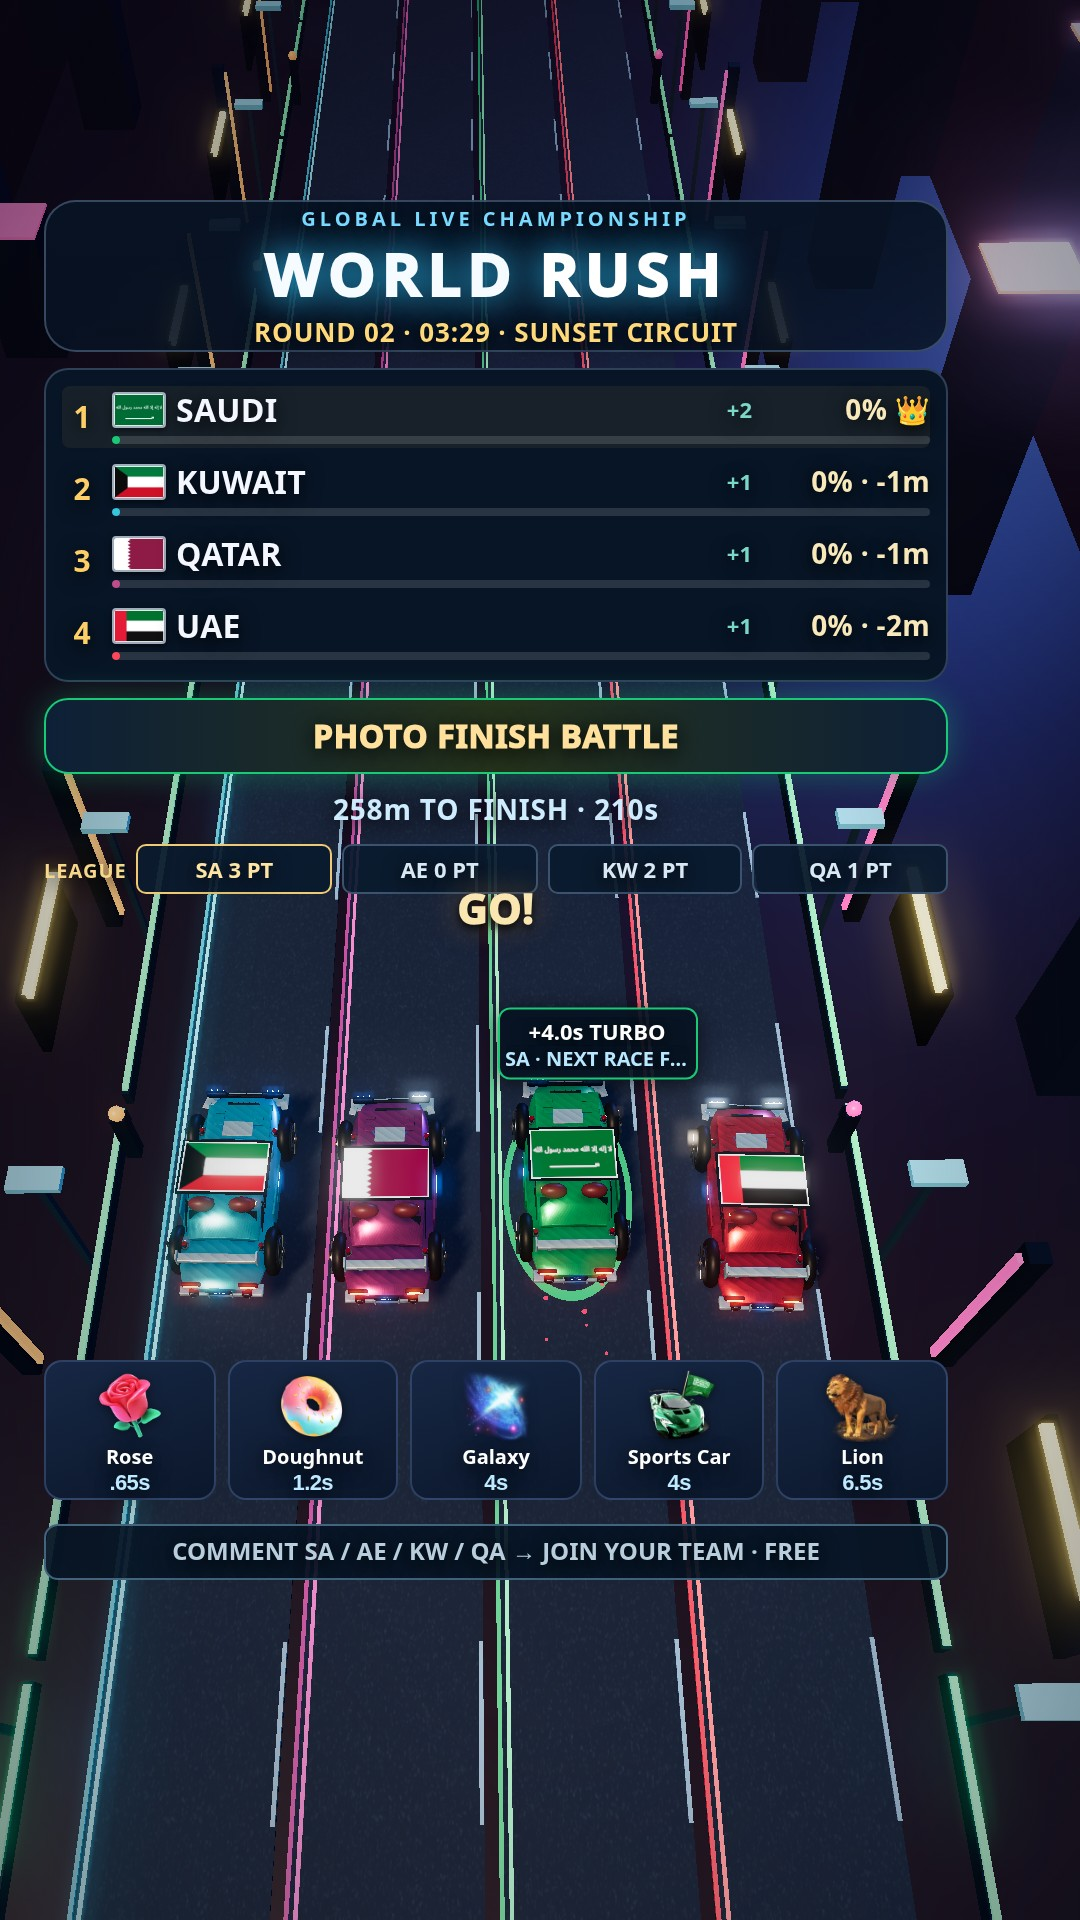
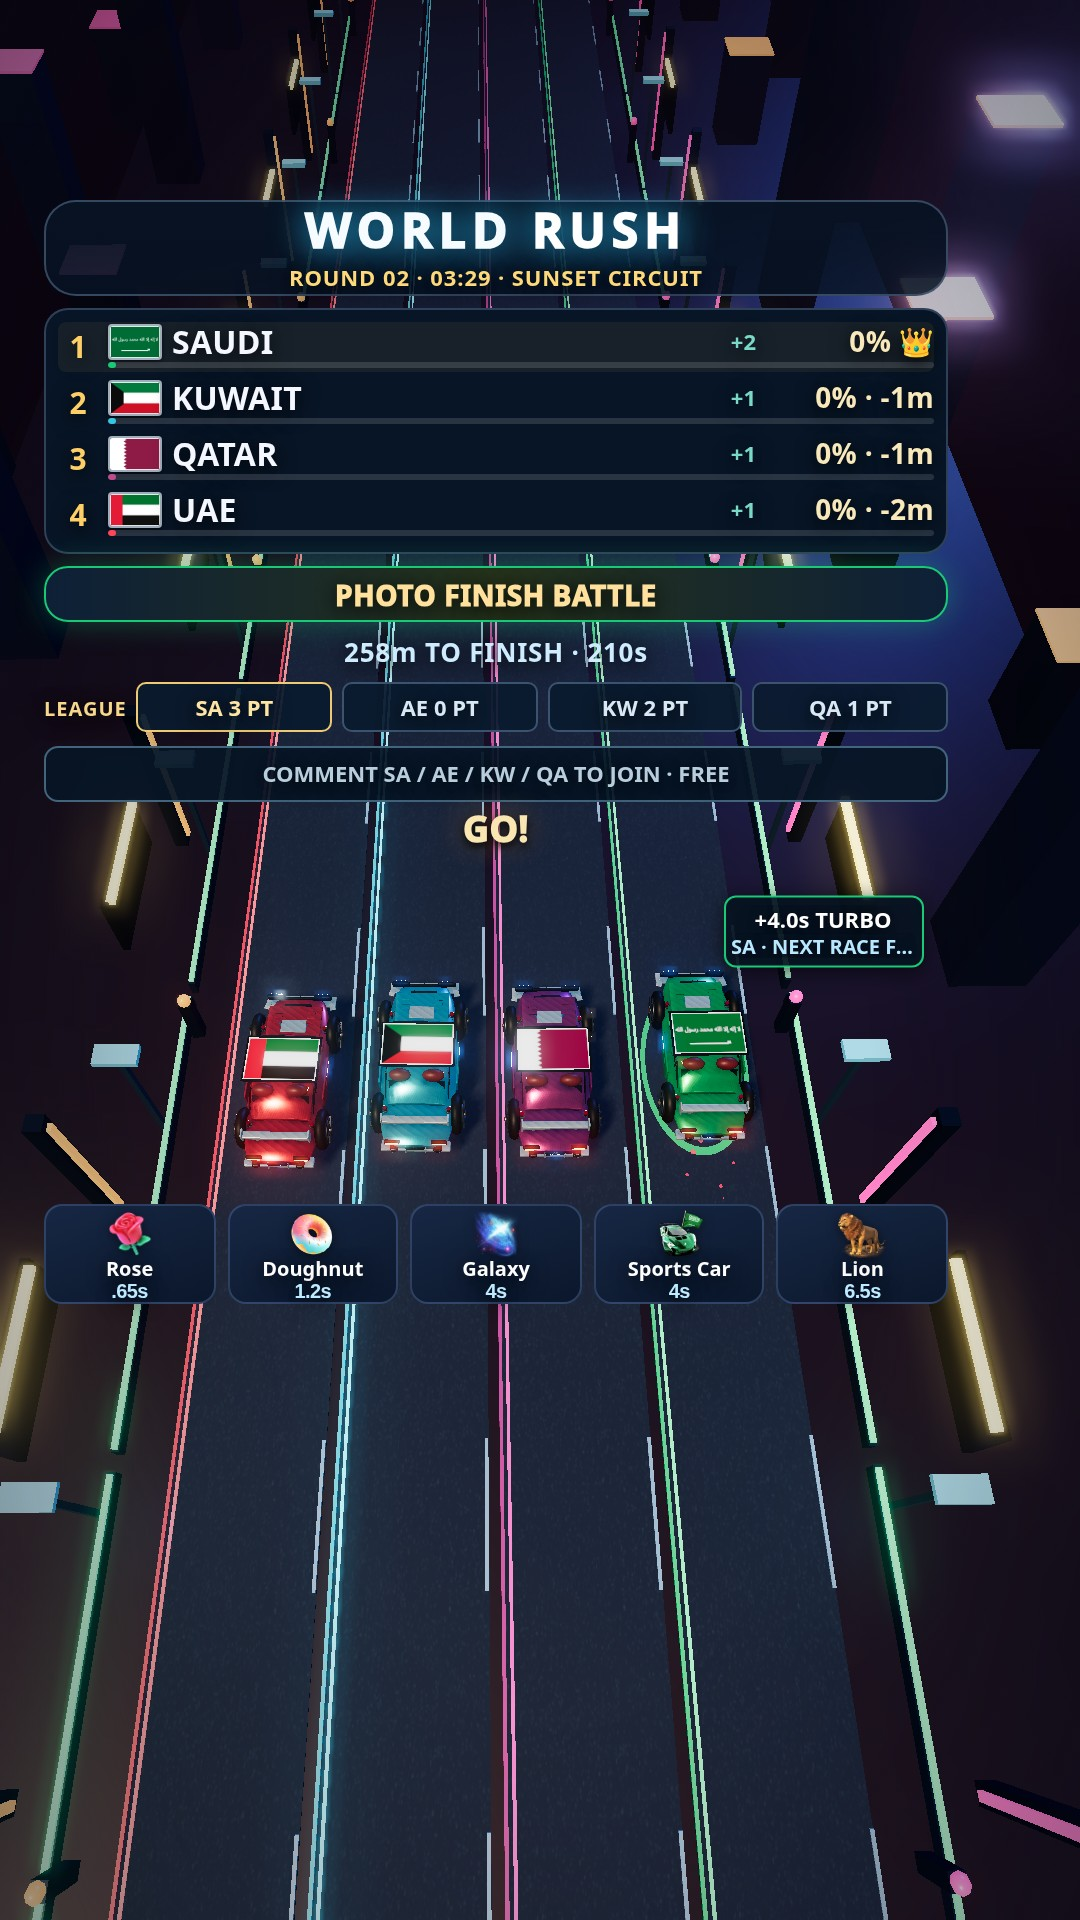
Reserve lower LIVE viewport for TikTok chat overlays

diff --git a/index.html b/index.html
@@ -156,7 +156,7 @@ h1 span{color:#75d4ff}
 
 
 /* LIVE capture fills any host viewport. Essential content uses a centered 9:16 area.
-   Safe bounds in logical pixels: x 22..474, y 100..790. */
+   Safe bounds in logical pixels: x 22..474, y 100..660. */
 html.stream-source,html.stream-source body{overflow:hidden}
 #app.portrait-layout.stream-mode{width:100vw;height:100dvh;min-height:0;box-shadow:none}
 #app.stream-mode #operatorPanel,#app.stream-mode #safePreview{display:none!important}
@@ -225,6 +225,33 @@ html.stream-source,html.stream-source body{overflow:hidden}
 #winnerCard{top:450px}
 .carLabel strong{font-size:11px}
 
+/* Keep essential LIVE content above the observed TikTok chat boundary (y=660). */
+#app.stream-mode #hud{padding:100px 66px 300px 22px}
+#app.stream-mode #topStack{gap:6px}
+#app.stream-mode header{height:48px;padding:4px;gap:2px}
+#app.stream-mode header small{display:none}
+#app.stream-mode h1{font-size:24px}
+#app.stream-mode #meta{font-size:11px}
+#app.stream-mode #rank{padding:6px;gap:3px}
+#app.stream-mode .racer{height:25px;grid-template-rows:19px 3px;row-gap:1px}
+#app.stream-mode .miniBar{height:3px}
+#app.stream-mode #battle{height:28px;padding:4px;font-size:14px}
+#app.stream-mode #countdown{font-size:13px}
+#app.stream-mode #joinHint{top:370px;bottom:auto;height:28px;font-size:11px}
+#app.stream-mode #giftGuide{top:602px;bottom:auto;height:50px;gap:6px}
+#app.stream-mode .giftBubble{height:50px;padding:2px;gap:0}
+#app.stream-mode .giftBubble .giftArt{width:24px;height:24px}
+#app.stream-mode .giftBubble .giftEmoji{font-size:22px;height:24px}
+#app.stream-mode .giftBubble .giftName{font-size:10px;line-height:11px}
+#app.stream-mode .giftBubble .giftPower{font-size:10px;line-height:11px}
+#app.stream-mode #giftMoment{top:404px;height:42px}
+#app.stream-mode #giftMoment .giftArt{width:34px;height:34px}
+#app.stream-mode #teamToast,#app.stream-mode #event{top:404px}
+#app.stream-mode #event{font-size:18px}
+#app.stream-mode #startCountdown{top:404px;font-size:56px}
+#app.stream-mode #winnerCard{top:404px;padding:6px}
+#app.stream-mode #winnerCard strong{font-size:19px}
+#app.stream-mode #winnerCard span{font-size:10px}
 </style></head><body><main id="app" class="booting broadcast-safe portrait-layout"><div id="stage"></div><div id="bootScreen"><div class="bootLogo">WORLD <span>RUSH</span></div><div class="bootCaption">PREPARING THE START GRID</div></div><div id="overlay"></div><div id="hud"><div id="topStack"><header><small>GLOBAL LIVE CHAMPIONSHIP</small><h1>WORLD <span>RUSH</span></h1><div id="meta">R01 · 03:30</div></header><div id="rank"></div><div id="raceProgress"><div id="progressLabel"><strong id="distance">260m LEFT</strong><div id="battle">RACE STARTING</div><div id="countdown">LIVE RACE</div><div id="leagueBoard" aria-label="Current league points"></div></div><div id="joinHint">COMMENT SA / AE / KW / QA TO JOIN · FREE</div>
 <div id="giftGuide" hidden aria-label="Hediye efektleri"><span class="giftBubble" data-gift-key="Rose"><span class="giftEmoji">🌹</span><img class="giftArt" hidden alt=""><span class="giftName">Rose</span><span class="giftPower">.65s</span></span>
 <span class="giftBubble" data-gift-key="Doughnut"><span class="giftEmoji">🍩</span><img class="giftArt" hidden alt=""><span class="giftName">Doughnut</span><span class="giftPower">1.2s</span></span>
@@ -1243,7 +1270,7 @@ function updateCarPresentation(order,now){
   // Keep labels in lane order so simultaneous boosts remain readable.
   const column=22+(car.laneIndex+.5)*113;
   const x=THREE.MathUtils.clamp(270+labelPoint.x*width/(2*scale),column-6,column+6);
-  const y=THREE.MathUtils.clamp(480-labelPoint.y*height/(2*scale),540,665);
+  const y=THREE.MathUtils.clamp(480-labelPoint.y*height/(2*scale),streamMode?484:540,streamMode?590:665);
   node.title=boosting?car.boost.toFixed(1)+'s remaining':'';
   node.style.left=x+'px';node.style.top=y+'px';
   node.style.setProperty('--team-color','#'+car.color.toString(16).padStart(6,'0'));
@@ -1287,7 +1314,7 @@ function framePortraitRace(){
  }
  // Fit the pack between the score panel and TikTok's comment area.
  const bounds=streamMode
-  ?{left:22,right:474,top:516,bottom:670}
+  ?{left:22,right:474,top:466,bottom:596}
   :{left:24.3,right:515.7,top:408,bottom:801.6};
  const targetWidth=(bounds.right-bounds.left)/270*portraitArea.width;
  const targetHeight=(bounds.bottom-bounds.top)/480*portraitArea.height;

diff --git a/screenshots/live-validation.md b/screenshots/live-validation.md
@@ -4,7 +4,7 @@
 
 | Kontrol | Sonuç |
 | --- | --- |
-| 1080×1920, 540×960 ve 1080×1080 | Her boyutta 10 görüntü kontrolü geçti |
+| 1080×1920, 540×960 ve 1080×1080 | Her boyutta 11 görüntü kontrolü geçti |
 | Başlangıç ve ilerleyen yarış | Dört araç, bayraklar ve skor satırları görünür |
 | Üç kamera modu | Araç sınırları tanımlanan güvenli alan içinde |
 | Lion kartı | Simüle WebSocket hediyesi doğru takıma boost verdi |
@@ -18,7 +18,7 @@
 | Ses motoru | Otomatik oynatma izni verilen tarayıcıda AudioContext running |
 | JavaScript | Testlerde sayfa hatası oluşmadı |
 
-Görüntüler doğrudan tarayıcı ekran görüntüleridir. Çizim tamponu boyutu kaynak çözünürlüğüyle aynı ölçüldü. HUD ve araç kutuları mantıksal 540×960 koordinatlara dönüştürülüp sınır denetiminden geçirildi. Test edilen kamera ve yarış durumlarında araç genişlikleri yaklaşık 38–95 mantıksal piksel arasındaydı.
+Görüntüler doğrudan tarayıcı ekran görüntüleridir. Çizim tamponu boyutu kaynak çözünürlüğüyle aynı ölçüldü. HUD ve araç kutuları mantıksal 540×960 koordinatlara dönüştürülüp sınır denetiminden geçirildi. Test edilen kamera ve yarış durumlarında araç genişlikleri yaklaşık 32–87 mantıksal piksel arasındaydı.
 
 Test hızlandırılmış oyun adımlarıyla gerçek oyun mantığını çalıştırır. Ara karelerde GPU çizimi atlanır, kontrol karelerinde gerçek WebGL çıktısı kaydedilir. WebSocket olayları test tarafından üretilir.
 
@@ -39,7 +39,7 @@ Repo kökünde `npm ci`, `npx playwright install chromium`, `npm run test:live` 
 
 ## Windows üzerinde kalan kontroller
 
-Kullanıcının TikTok LIVE Studio sahnesine erişilmedi. Studio'nun gerçek dönüşümü, kişiye özel TikTok katmanları, gerçek yayın sesinin yakalanması ve gerçek TikTok hediye bağlantısı burada doğrulanamadı. Bu testler 60 FPS sonucunu ölçmez. Güvenli alanlar üstte 100, sağda 66, altta 170 mantıksal piksel varsayımıyla düzenlendi. Studio önizlemesiyle kontrol edilmelidir. Windows komut dosyaları Linux ortamında çalıştırılmadı.
+Kullanıcının TikTok LIVE Studio sahnesine erişilmedi. Studio'nun gerçek dönüşümü, kişiye özel TikTok katmanları, gerçek yayın sesinin yakalanması ve gerçek TikTok hediye bağlantısı burada doğrulanamadı. Bu testler 60 FPS sonucunu ölçmez. Güvenli alanlar üstte 100, sağda 66, altta 300 mantıksal piksel varsayımıyla düzenlendi. Studio önizlemesiyle kontrol edilmelidir. Windows komut dosyaları Linux ortamında çalıştırılmadı.
 
 Son görsel güncellemesinde özgün TikTok CDN resimlerinin beş kartta yüklenmesi de otomatik kontrol edildi. Neon yan süslemeleri ve büyütülmüş hediye kartlarıyla üç çözünürlükte testler tekrar çalıştırıldı.
 
@@ -50,3 +50,9 @@ Katılım açıklaması ve hediye kılavuzu sürekli görünür. Araç altındak
 Sonuç ekranı 3 saniye, sonraki başlangıç 1,5 saniyedir. Üç kaynak boyutundaki test, finişten 5 saniye sonra yeni yarışın başladığını, her ülkenin şerit değiştirdiğini ve bekleyen hediyenin doğru destekçiyle taşındığını denetler. `npm run test:live -- --themes-only` dört arena geçişini 1080×1920 boyutunda kontrol eder; ülke kimlikleri ve şerit renklerinin eşleşmesi de denetlenir.
 
 - [Sonraki yarış: yeni şeritler ve Sunset Circuit](live-next-arena-1080x1920.jpg)
+
+## TikTok sohbetine ayrılan alan
+
+Paylaşılan Studio önizlemesine göre kritik içeriklerin alt sınırı y=660 mantıksal piksele çekildi. Test artık tüm HUD kutuları için bu sınırı, araçlar için y=600 sınırını doğrular. Her çözünürlükte sonraki yarışa bir temsili sohbet katmanı eklenerek ekran görüntüsü alınır. Bu katman yalnızca testte bulunur; gerçek TikTok sohbetini kontrol etmez.
+
+- [1080×1920 temsili sohbet önizlemesi](live-chat-preview-1080x1920.jpg)

diff --git a/YAYIN_KURULUMU.md b/YAYIN_KURULUMU.md
@@ -4,7 +4,7 @@
 
 Bu adres, oyunu `index.html?stream=1` üzerinden tek bir tam ekran çerçevede çalıştırır. Adres `live.html` olarak kalır. WebGL ve HUD kaynak boyutuna göre yeniden boyutlanır. 1080×1920 ve 540×960 boyutlarında oyun tüm alanı doldurur. Kare veya yatay kaynakta pist tüm alanı kaplar, skor ve araçlar ortadaki 9:16 alanında kalır. Yayın için kaynak çözünürlüğü yine 1080×1920 olmalıdır.
 
-Yayın yerleşimi 540×960 mantıksal ölçü kullanır. Önemli içerik soldan 22, sağdan 66, üstten 100 ve alttan 170 piksel içeride tutulur. 1080×1920 kaynakta bunlar iki katına çıkar. TikTok'un hedef ve sohbet katmanları hesap/Studio düzenine göre değişebilir. Kendi mobil önizlemende bu alanları kontrol et.
+Yayın yerleşimi 540×960 mantıksal ölçü kullanır. Önemli içerik soldan 22, sağdan 66, üstten 100 ve alttan 300 piksel içeride tutulur. 1080×1920 kaynakta bunlar iki katına çıkar. TikTok'un hedef ve sohbet katmanları hesap/Studio düzenine göre değişebilir. Kendi mobil önizlemende bu alanları kontrol et.
 
 ## Tek seferlik TikTok LIVE Studio kurulumu
 
@@ -103,3 +103,7 @@ Pist kenarlarındaki neon bariyerler, sütunlar ve dış yapılar geri açıldı
 - Lig puanları ilk üçe 3/2/1 olarak verilir ve lig değişiminde sıfırlanır. Sonuç ekranında gelen hediyeler aynı ülkenin sonraki yarışına aktarılır.
 
 Yeni yarışa geçiş toplam yaklaşık 4,5 saniyedir (3 saniye sonuç + 1,5 saniye başlangıç). İlk açılış geri sayımı 3,5 saniye kalır. Her tur bütün ülkeler farklı bir şeride geçer; ülke seçimi, hediyeler ve lig puanları ülkeye bağlı kalır. Arena görünümü NEON CITY, SUNSET CIRCUIT, ARCTIC RUN ve VIOLET NIGHT arasında döner; neon renkleri, zemin/arka plan ve dış bina yükseklikleri değişir.
+
+## Sohbet alanı
+
+LIVE kaynağında alt 300 mantıksal piksel TikTok sohbeti için ayrılır (1080×1920 çıktıda 600 piksel). Başlık ve skor alanı sıkılaştırıldı; katılım yazısı, araçlar ve hediye kartları y=660 sınırının üstündedir. `index.html` normal masaüstü düzeni değişmez. Bu sınır paylaşılan Studio ekranına göre seçildi; TikTok sohbetinin uzunluğu ve katmanları değişebilir. `*-chat-preview.jpg` test görüntülerindeki koyu kutu simülasyondur, oyunda görünmez.
